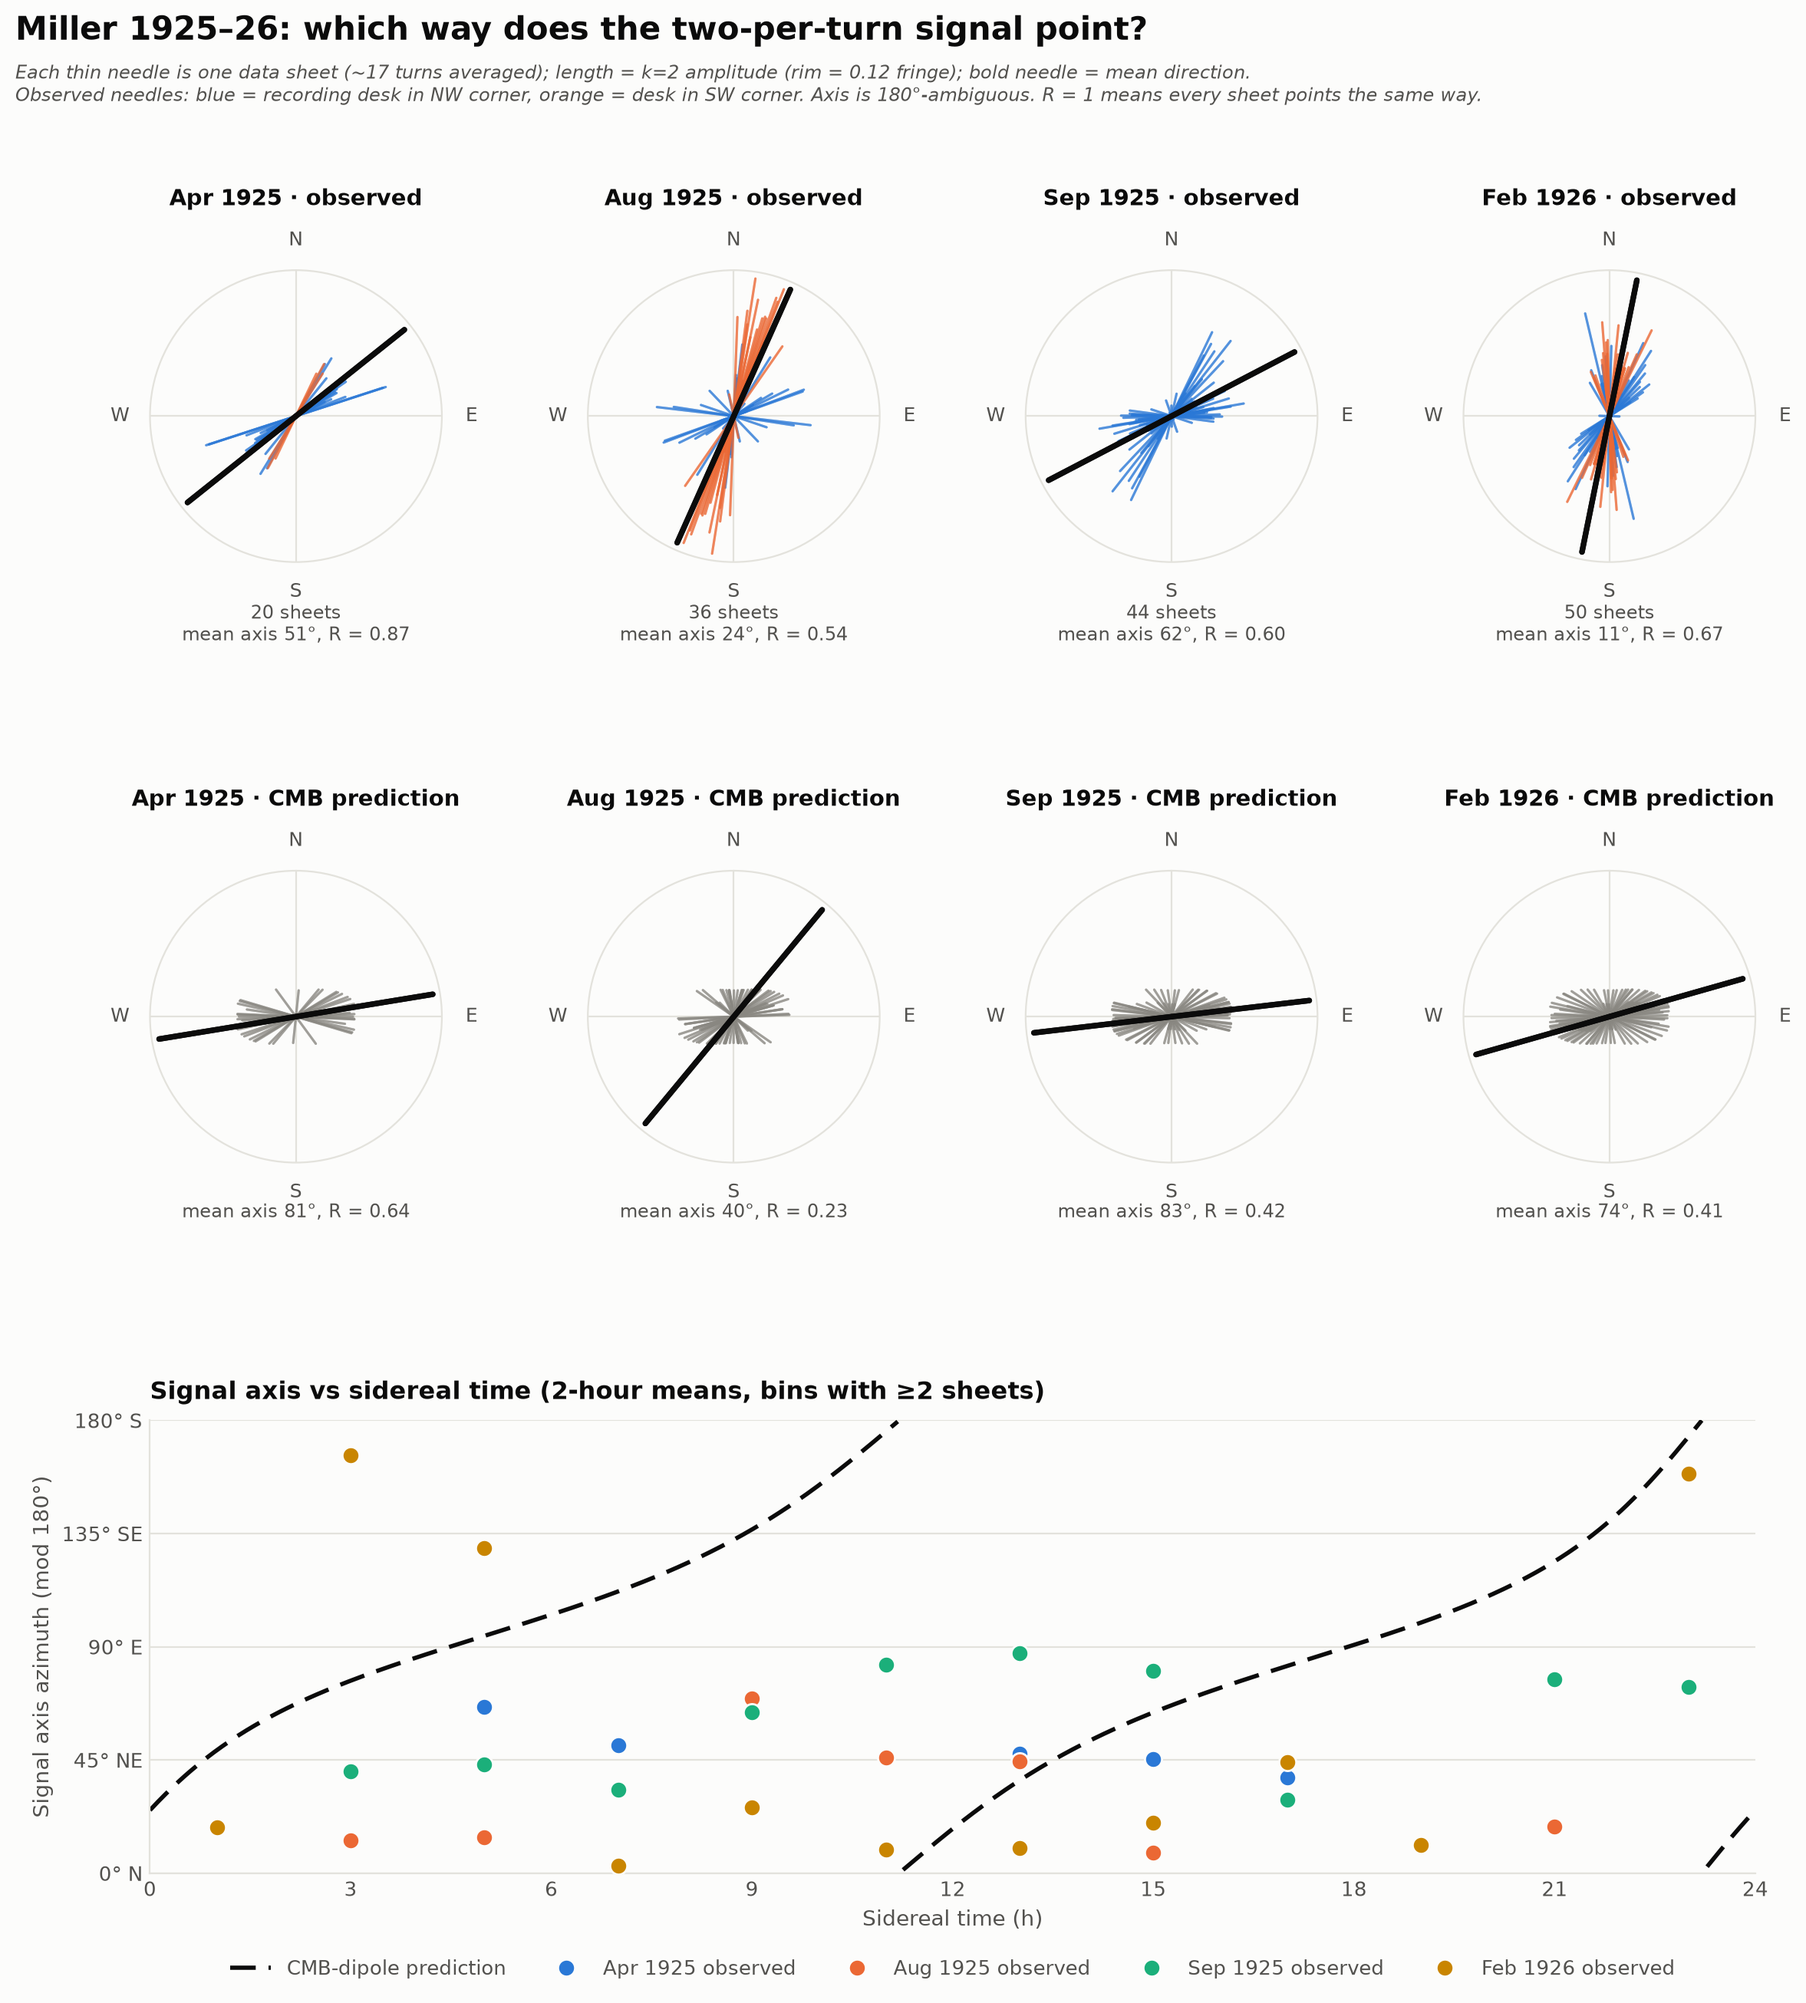
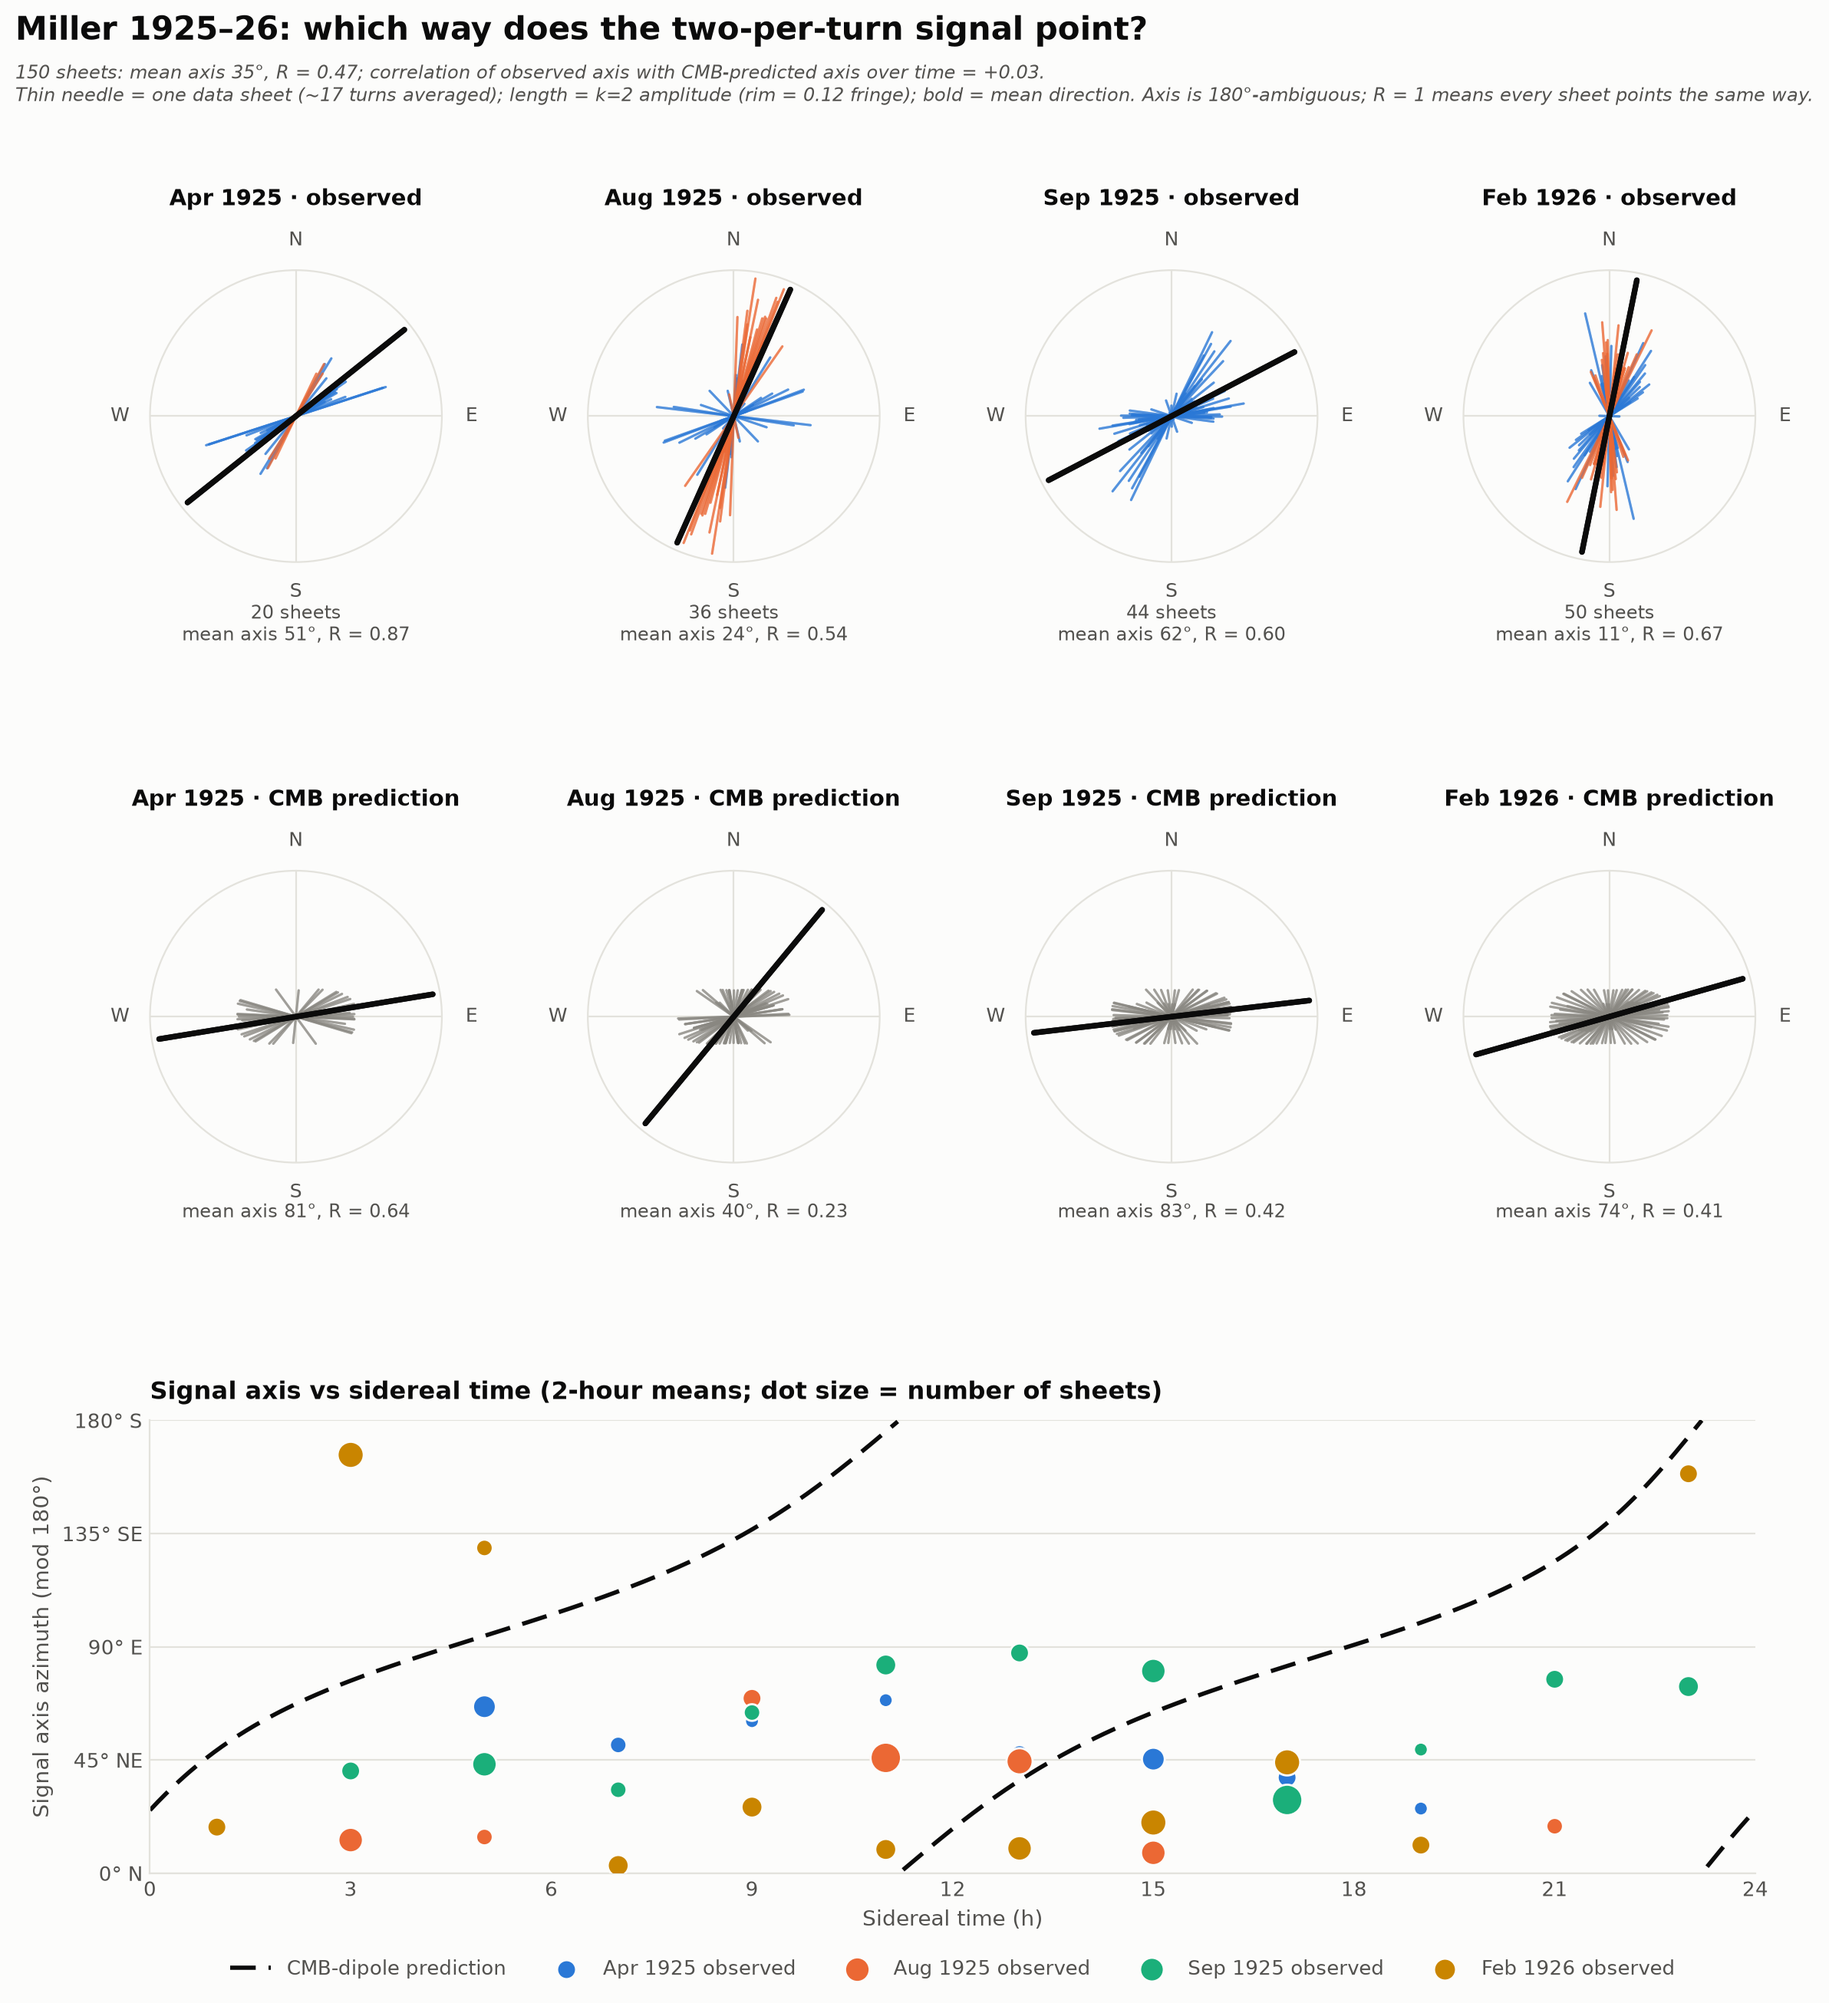
Split Miller phase analysis by recording-desk position
Draws the compass-dial phase figure separately for sheets recorded with
the desk in the NW corner and in the SW corner (from Miller's notebook),
alongside the combined figure.

Claude-Session: https://claude.ai/code/session_01CdXoVjB76eVbHa16teoE7x

diff --git a/analysis/plot_miller_phase.py b/analysis/plot_miller_phase.py
@@ -62,72 +62,98 @@ def needle(ax, az, length, color, lw, alpha=1.0):
 
 
 SCALE = 0.12  # fringes at the rim
-fig = plt.figure(figsize=(13.5, 14), dpi=200)
-fig.patch.set_facecolor(SURFACE)
-gs = fig.add_gridspec(3, 4, height_ratios=[1, 1, 1.15], hspace=0.5, wspace=0.5)
 
-for col, (name, prefixes, _) in enumerate(EPOCHS):
-    group = [s for s in sheets if s["date"][:7] in prefixes]
-    obs_ax = fig.add_subplot(gs[0, col], projection="polar")
-    pred_ax = fig.add_subplot(gs[1, col], projection="polar")
-    dial(obs_ax, f"{name} · observed")
-    dial(pred_ax, f"{name} · CMB prediction")
-    for s in group:
-        needle(obs_ax, s["axis"], min(s["amp"] / SCALE, 1), DESK_SW if s["desk_sw"] else DESK_NW, 1.1, 0.55)
-        needle(pred_ax, s["pred_axis"], min(s["pred_amp"] / SCALE, 1), PRED, 1.1, 0.55)
-    m, R = mean_axis([s["axis"] for s in group])
-    pm, pR = mean_axis([s["pred_axis"] for s in group])
-    needle(obs_ax, m, 0.95, TEXT_PRI, 2.6)
-    needle(pred_ax, pm, 0.95, TEXT_PRI, 2.6)
-    obs_ax.text(0.5, -0.14, f"{len(group)} sheets\nmean axis {m:.0f}°, R = {R:.2f}",
-                transform=obs_ax.transAxes, va="top", ha="center", color=TEXT_SEC, fontsize=8.5)
-    pred_ax.text(0.5, -0.14, f"mean axis {pm:.0f}°, R = {pR:.2f}",
-                 transform=pred_ax.transAxes, va="top", ha="center", color=TEXT_SEC, fontsize=8.5)
 
-# --- axis vs sidereal time, 2-hour vector means ---
-ax = fig.add_subplot(gs[2, :])
-ax.set_facecolor(SURFACE)
-for sp in ["top", "right"]:
-    ax.spines[sp].set_visible(False)
-for sp in ["left", "bottom"]:
-    ax.spines[sp].set_color(GRID)
-ax.tick_params(length=0, colors=TEXT_SEC, labelsize=9.5)
-ax.grid(axis="y", color=GRID, linewidth=0.8)
+def circ_corr(a, b):
+    """Fisher-Lee circular correlation of two sets of axes (deg, mod 180)."""
+    a, b = 2 * np.radians(a), 2 * np.radians(b)
+    sa, sb = np.sin(a[:, None] - a[None, :]), np.sin(b[:, None] - b[None, :])
+    return np.sum(sa * sb) / np.sqrt(np.sum(sa**2) * np.sum(sb**2))
 
-t = np.linspace(0, 24, 600)
-pa = cmb_axis(t)
-pa_plot = pa.copy()
-pa_plot[np.r_[False, np.abs(np.diff(pa)) > 90]] = np.nan
-ax.plot(t, pa_plot, color=TEXT_PRI, linewidth=2, linestyle=(0, (6, 3)), label="CMB-dipole prediction", zorder=2)
-for name, prefixes, colr in EPOCHS:
-    group = [s for s in sheets if s["date"][:7] in prefixes]
-    xs, ys = [], []
-    for b in range(12):
-        in_bin = [s for s in group if 2 * b <= s["lst"] < 2 * b + 2]
-        if len(in_bin) >= 2:
-            xs.append(2 * b + 1)
-            ys.append(mean_axis([s["axis"] for s in in_bin])[0])
-    ax.plot(xs, ys, color=colr, marker="o", markersize=8, markeredgecolor=SURFACE,
-            linewidth=0, label=f"{name} observed", zorder=3)
-ax.set_xlim(0, 24)
-ax.set_ylim(0, 180)
-ax.set_xticks(range(0, 25, 3))
-ax.set_yticks([0, 45, 90, 135, 180])
-ax.set_yticklabels(["0° N", "45° NE", "90° E", "135° SE", "180° S"])
-ax.set_xlabel("Sidereal time (h)", color=TEXT_SEC, fontsize=10)
-ax.set_ylabel("Signal axis azimuth (mod 180°)", color=TEXT_SEC, fontsize=10)
-ax.set_title("Signal axis vs sidereal time (2-hour means, bins with ≥2 sheets)",
-             color=TEXT_PRI, fontsize=11.5, fontweight="bold", loc="left", pad=10)
-ax.legend(loc="upper center", bbox_to_anchor=(0.5, -0.15), ncol=5, frameon=False,
-          fontsize=9.5, labelcolor=TEXT_SEC)
 
-fig.suptitle("Miller 1925–26: which way does the two-per-turn signal point?",
-             x=0.06, ha="left", color=TEXT_PRI, fontsize=15, fontweight="bold", y=0.975)
-fig.text(0.06, 0.953,
-         "Each thin needle is one data sheet (~17 turns averaged); length = k=2 amplitude (rim = 0.12 fringe); "
-         "bold needle = mean direction.\nObserved needles: blue = recording desk in NW corner, orange = desk in SW corner. "
-         "Axis is 180°-ambiguous. R = 1 means every sheet points the same way.",
-         color=TEXT_SEC, fontsize=8.8, style="italic", va="top")
-out = Path(__file__).parent / "miller1925_phase.png"
-plt.savefig(out, facecolor=SURFACE, bbox_inches="tight")
-print(out)
+def make_figure(subset, title, needle_color, out_name):
+    fig = plt.figure(figsize=(13.5, 14), dpi=200)
+    fig.patch.set_facecolor(SURFACE)
+    gs = fig.add_gridspec(3, 4, height_ratios=[1, 1, 1.15], hspace=0.5, wspace=0.5)
+
+    for col, (name, prefixes, _) in enumerate(EPOCHS):
+        group = [s for s in subset if s["date"][:7] in prefixes]
+        obs_ax = fig.add_subplot(gs[0, col], projection="polar")
+        pred_ax = fig.add_subplot(gs[1, col], projection="polar")
+        dial(obs_ax, f"{name} · observed")
+        dial(pred_ax, f"{name} · CMB prediction")
+        if not group:
+            for a in (obs_ax, pred_ax):
+                a.text(0.5, -0.14, "no sheets", transform=a.transAxes, va="top",
+                       ha="center", color=TEXT_SEC, fontsize=8.5)
+            continue
+        for s in group:
+            c = needle_color or (DESK_SW if s["desk_sw"] else DESK_NW)
+            needle(obs_ax, s["axis"], min(s["amp"] / SCALE, 1), c, 1.1, 0.55)
+            needle(pred_ax, s["pred_axis"], min(s["pred_amp"] / SCALE, 1), PRED, 1.1, 0.55)
+        m, R = mean_axis([s["axis"] for s in group])
+        pm, pR = mean_axis([s["pred_axis"] for s in group])
+        needle(obs_ax, m, 0.95, TEXT_PRI, 2.6)
+        needle(pred_ax, pm, 0.95, TEXT_PRI, 2.6)
+        obs_ax.text(0.5, -0.14, f"{len(group)} sheets\nmean axis {m:.0f}°, R = {R:.2f}",
+                    transform=obs_ax.transAxes, va="top", ha="center", color=TEXT_SEC, fontsize=8.5)
+        pred_ax.text(0.5, -0.14, f"mean axis {pm:.0f}°, R = {pR:.2f}",
+                     transform=pred_ax.transAxes, va="top", ha="center", color=TEXT_SEC, fontsize=8.5)
+
+    ax = fig.add_subplot(gs[2, :])
+    ax.set_facecolor(SURFACE)
+    for sp in ["top", "right"]:
+        ax.spines[sp].set_visible(False)
+    for sp in ["left", "bottom"]:
+        ax.spines[sp].set_color(GRID)
+    ax.tick_params(length=0, colors=TEXT_SEC, labelsize=9.5)
+    ax.grid(axis="y", color=GRID, linewidth=0.8)
+    t = np.linspace(0, 24, 600)
+    pa = cmb_axis(t)
+    pa[np.r_[False, np.abs(np.diff(pa)) > 90]] = np.nan
+    ax.plot(t, pa, color=TEXT_PRI, linewidth=2, linestyle=(0, (6, 3)), label="CMB-dipole prediction", zorder=2)
+    for name, prefixes, colr in EPOCHS:
+        group = [s for s in subset if s["date"][:7] in prefixes]
+        xs, ys, ns = [], [], []
+        for b in range(12):
+            in_bin = [s for s in group if 2 * b <= s["lst"] < 2 * b + 2]
+            if in_bin:
+                xs.append(2 * b + 1)
+                ys.append(mean_axis([s["axis"] for s in in_bin])[0])
+                ns.append(len(in_bin))
+        if xs:
+            ax.scatter(xs, ys, s=[25 + 18 * n for n in ns], color=colr, edgecolor=SURFACE,
+                       linewidth=1, label=f"{name} observed", zorder=3)
+    ax.set_xlim(0, 24)
+    ax.set_ylim(0, 180)
+    ax.set_xticks(range(0, 25, 3))
+    ax.set_yticks([0, 45, 90, 135, 180])
+    ax.set_yticklabels(["0° N", "45° NE", "90° E", "135° SE", "180° S"])
+    ax.set_xlabel("Sidereal time (h)", color=TEXT_SEC, fontsize=10)
+    ax.set_ylabel("Signal axis azimuth (mod 180°)", color=TEXT_SEC, fontsize=10)
+    ax.set_title("Signal axis vs sidereal time (2-hour means; dot size = number of sheets)",
+                 color=TEXT_PRI, fontsize=11.5, fontweight="bold", loc="left", pad=10)
+    ax.legend(loc="upper center", bbox_to_anchor=(0.5, -0.15), ncol=5, frameon=False,
+              fontsize=9.5, labelcolor=TEXT_SEC)
+
+    axes = np.array([s["axis"] for s in subset])
+    m, R = mean_axis(axes)
+    r = circ_corr(axes, np.array([s["pred_axis"] for s in subset]))
+    fig.suptitle(title, x=0.06, ha="left", color=TEXT_PRI, fontsize=15, fontweight="bold", y=0.975)
+    fig.text(0.06, 0.953,
+             f"{len(subset)} sheets: mean axis {m:.0f}°, R = {R:.2f}; correlation of observed axis with CMB-predicted "
+             f"axis over time = {r:+.2f}.\nThin needle = one data sheet (~17 turns averaged); length = k=2 amplitude "
+             "(rim = 0.12 fringe); bold = mean direction. Axis is 180°-ambiguous; R = 1 means every sheet points the same way.",
+             color=TEXT_SEC, fontsize=8.8, style="italic", va="top")
+    out = Path(__file__).parent / out_name
+    plt.savefig(out, facecolor=SURFACE, bbox_inches="tight")
+    plt.close(fig)
+    print(f"{out.name}: n={len(subset)} mean={m:.0f} R={R:.2f} corr={r:+.2f}")
+
+
+make_figure(sheets, "Miller 1925–26: which way does the two-per-turn signal point?",
+            None, "miller1925_phase.png")
+make_figure([s for s in sheets if not s["desk_sw"]],
+            "Miller 1925–26, recording desk in NW corner", DESK_NW, "miller1925_phase_desk_nw.png")
+make_figure([s for s in sheets if s["desk_sw"]],
+            "Miller 1925–26, recording desk in SW corner", DESK_SW, "miller1925_phase_desk_sw.png")
